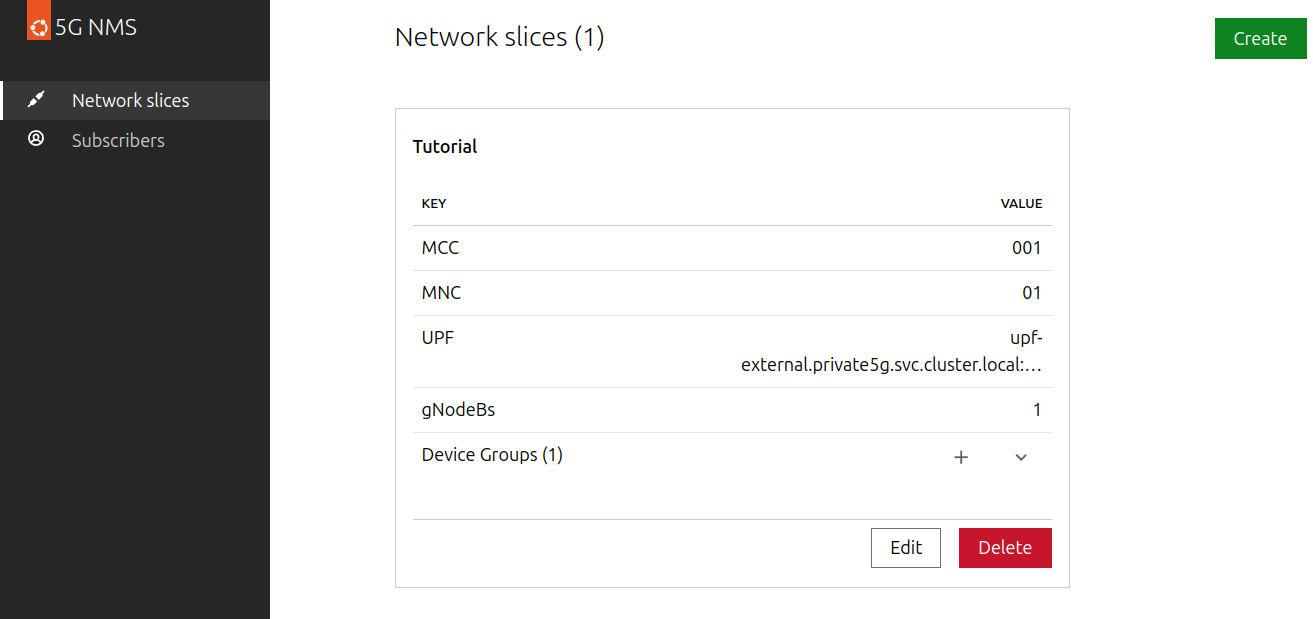
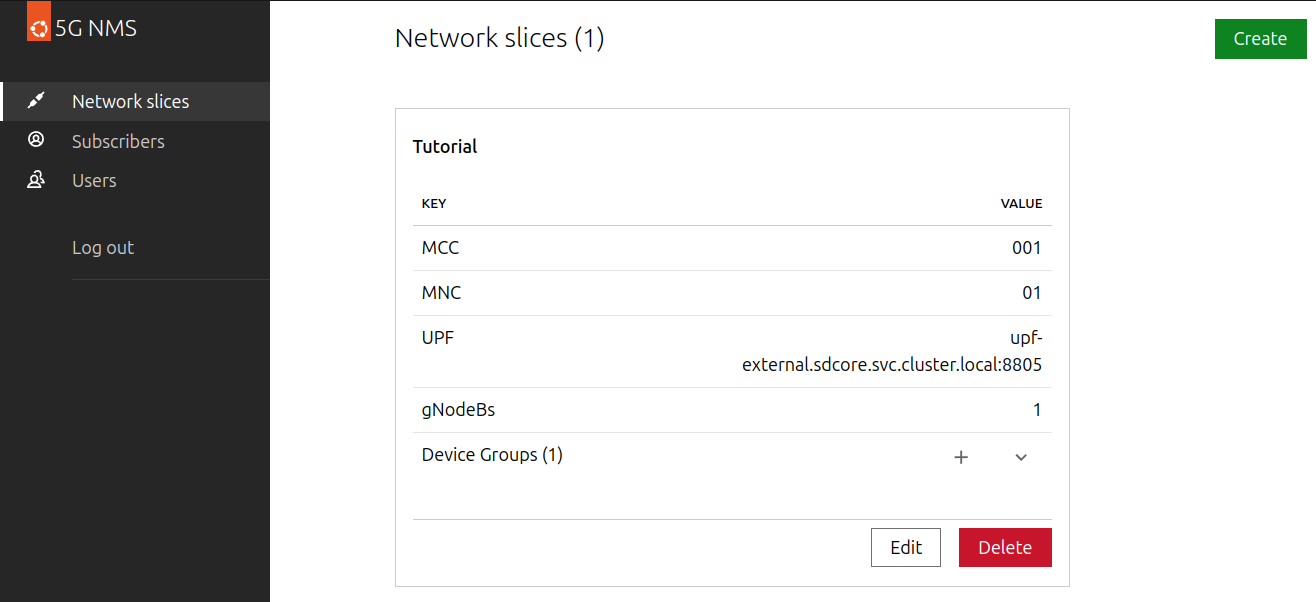
feat: Updates the documentation after switching from fiveg_gnb_identity to fiveg_core_gnb (#20)

diff --git a/docs/tutorials/getting_started.md b/docs/tutorials/getting_started.md
@@ -23,14 +23,14 @@ To complete this tutorial, you will need a machine which meets the following req
 From your terminal, install MicroK8s:
 
 ```console
-sudo snap install microk8s --channel=1.31/stable --classic
+sudo snap install microk8s --channel=1.31-strict/stable
 ```
 
 Add your user to the `microk8s` group:
 
 ```console
-sudo usermod -a -G microk8s $USER
-newgrp microk8s
+sudo usermod -a -G snap_microk8s $USER
+newgrp snap_microk8s
 ```
 
 Add the community repository MicroK8s addon:
@@ -43,15 +43,9 @@ Enable the following MicroK8s addons.
 We must give MetalLB an address range that has at least 3 IP addresses for Charmed Aether SD-Core.
 
 ```console
-microk8s enable hostpath-storage
-microk8s enable multus
-microk8s enable metallb:10.0.0.2-10.0.0.4
-```
-
-Export MicroK8s cluster's configuration:
-
-```console
-microk8s config > ~/.kube/config
+sudo microk8s enable hostpath-storage
+sudo microk8s enable multus
+sudo microk8s enable metallb:10.0.0.2-10.0.0.4
 ```
 
 ### Bootstrap a Juju controller
@@ -62,16 +56,17 @@ From your terminal, install Juju:
 sudo snap install juju --channel=3.6/stable
 ```
 
-Add MicroK8s cluster to Juju:
-
-```console
-juju add-k8s microk8s-classic
-```
-
 Bootstrap a Juju controller:
 
 ```console
-juju bootstrap microk8s-classic
+juju bootstrap microk8s
+```
+
+```{note}
+There is a [bug](https://bugs.launchpad.net/juju/+bug/1988355) in Juju that occurs when
+bootstrapping a controller on a new machine. If you encounter it, create the following
+directory:
+`mkdir -p /home/ubuntu/.local/share`
 ```
 
 ### Install Terraform
@@ -109,7 +104,7 @@ EOF
 Create a Terraform module containing the Charmed Aether SD-Core and a router:
 
 ```console
-cat << EOF > main.tf
+cat << EOF > core.tf
 resource "juju_model" "sdcore" {
   name = "sdcore"
 }
@@ -170,43 +165,48 @@ It is also expected that `traefik` goes to the error state (related Traefik [bug
 Example:
 
 ```console
-ubuntu@host:~$ juju status
+ubuntu@host:~/terraform $ juju status
 Model      Controller                  Cloud/Region                Version  SLA          Timestamp
-sdcore     microk8s-classic-localhost  microk8s-classic/localhost  3.6.0   unsupported  08:08:50Z
+sdcore  microk8s-localhost  microk8s/localhost  3.6.1    unsupported  09:10:50+01:00
 
 App                       Version  Status   Scale  Charm                     Channel        Rev  Address         Exposed  Message
-amf                       1.5.1    active       1  sdcore-amf-k8s            1.5/stable     834  10.152.183.176  no       
-ausf                      1.5.1    active       1  sdcore-ausf-k8s           1.5/stable     645  10.152.183.65   no       
-grafana-agent             0.32.1   waiting      1  grafana-agent-k8s         latest/stable  45   10.152.183.221  no       installing agent
-mongodb                            active       1  mongodb-k8s               6/stable       61   10.152.183.92   no       Primary
-nms                       1.0.0    active       1  sdcore-nms-k8s            1.5/stable     741  10.152.183.141  no       
-nrf                       1.5.2    active       1  sdcore-nrf-k8s            1.5/stable     720  10.152.183.130  no       
-nssf                      1.5.1    active       1  sdcore-nssf-k8s           1.5/stable     614  10.152.183.62   no       
-pcf                       1.5.2    active       1  sdcore-pcf-k8s            1.5/stable     650  10.152.183.144  no       
-router                             active       1  sdcore-router-k8s         1.5/stable     424  10.152.183.218  no       
-self-signed-certificates           active       1  self-signed-certificates  latest/stable  155  10.152.183.33   no       
-smf                       1.6.2    active       1  sdcore-smf-k8s            1.5/stable     745  10.152.183.64   no       
-traefik                   2.11.0   waiting      1  traefik-k8s               latest/stable  199  10.152.183.198  no       installing agent
-udm                       1.5.1    active       1  sdcore-udm-k8s            1.5/stable     605  10.152.183.31   no       
-udr                       1.6.1    active       1  sdcore-udr-k8s            1.5/stable     597  10.152.183.82   no       
-upf                       1.5.0    active       1  sdcore-upf-k8s            1.5/stable     691  10.152.183.164  no       
+amf                       1.6.1    active       1  sdcore-amf-k8s            1.6/edge       863  10.152.183.24   no       
+ausf                      1.5.1    active       1  sdcore-ausf-k8s           1.6/edge       676  10.152.183.54   no       
+grafana-agent             0.40.4   blocked      1  grafana-agent-k8s         latest/stable   80  10.152.183.247  no       Missing ['grafana-cloud-config']|['logging-consumer'] for logging-provider; ['grafana-cloud-config']|['send-remote-wr...
+mongodb                            active       1  mongodb-k8s               6/stable        61  10.152.183.233  no       
+nms                       1.1.0    active       1  sdcore-nms-k8s            1.6/edge       799  10.152.183.107  no       
+nrf                       1.6.1    active       1  sdcore-nrf-k8s            1.6/edge       748  10.152.183.179  no       
+nssf                      1.5.1    active       1  sdcore-nssf-k8s           1.6/edge       631  10.152.183.133  no       
+pcf                       1.5.2    active       1  sdcore-pcf-k8s            1.6/edge       670  10.152.183.21   no       
+router                             active       1  sdcore-router-k8s         1.6/edge       437  10.152.183.203  no       
+self-signed-certificates           active       1  self-signed-certificates  latest/stable  155  10.152.183.201  no       
+smf                       1.6.2    active       1  sdcore-smf-k8s            1.6/edge       765  10.152.183.172  no       
+traefik                   2.11.0   error        1  traefik-k8s               latest/stable  203  10.152.183.128  no       hook failed: "ingress-relation-created"
+udm                       1.5.1    active       1  sdcore-udm-k8s            1.6/edge       626  10.152.183.52   no       
+udr                       1.6.1    active       1  sdcore-udr-k8s            1.6/edge       613  10.152.183.236  no       
+upf                       1.4.0    active       1  sdcore-upf-k8s            1.6/edge       678  10.152.183.34   no       
 
-Unit                         Workload  Agent  Address      Ports  Message
-amf/0*                       active    idle   10.1.10.181         
-ausf/0*                      active    idle   10.1.10.186         
-grafana-agent/0*             blocked   idle   10.1.10.133         grafana-cloud-config: off, logging-consumer: off
-mongodb/0*                   active    idle   10.1.10.155         Primary
-nms/0*                       active    idle   10.1.10.174         
-nrf/0*                       active    idle   10.1.10.151         
-nssf/0*                      active    idle   10.1.10.136         
-pcf/0*                       active    idle   10.1.10.146         
-router/0*                    active    idle   10.1.10.145         
-self-signed-certificates/0*  active    idle   10.1.10.141         
-smf/0*                       active    idle   10.1.10.154         
-traefik/0*                   error     idle   10.1.10.160         hook failed: "ingress-relation-created"
-udm/0*                       active    idle   10.1.10.187         
-udr/0*                       active    idle   10.1.10.176         
-upf/0*                       active    idle   10.1.10.169
+Unit                         Workload  Agent  Address       Ports  Message
+amf/0*                       active    idle   10.1.194.224         
+ausf/0*                      active    idle   10.1.194.212         
+grafana-agent/0*             blocked   idle   10.1.194.214         Missing ['grafana-cloud-config']|['logging-consumer'] for logging-provider; ['grafana-cloud-config']|['send-remote-wr...
+mongodb/0*                   active    idle   10.1.194.193         
+nms/0*                       active    idle   10.1.194.217         
+nrf/0*                       active    idle   10.1.194.241         
+nssf/0*                      active    idle   10.1.194.249         
+pcf/0*                       active    idle   10.1.194.201         
+router/0*                    active    idle   10.1.194.255         
+self-signed-certificates/0*  active    idle   10.1.194.219         
+smf/0*                       active    idle   10.1.194.223         
+traefik/0*                   error     idle   10.1.194.251         hook failed: "ingress-relation-created"
+udm/0*                       active    idle   10.1.194.199         
+udr/0*                       active    idle   10.1.194.231         
+upf/0*                       active    idle   10.1.194.240         
+
+Offer  Application  Charm           Rev  Connected  Endpoint        Interface       Role
+amf    amf          sdcore-amf-k8s  863  0/0        fiveg-n2        fiveg_n2        provider
+nms    nms          sdcore-nms-k8s  799  0/0        fiveg_core_gnb  fiveg_core_gnb  provider
+upf    upf          sdcore-upf-k8s  678  0/0        fiveg_n3        fiveg_n3        provider
 ```
 
 ### Configure the ingress
@@ -220,16 +220,16 @@ microk8s.kubectl -n sdcore get svc | grep "traefik-lb"
 The output should look similar to below:
 
 ```console
-ubuntu@host:~/terraform$ microk8s.kubectl -n sdcore get svc | grep "traefik-lb"
+ubuntu@host:~/terraform $ microk8s.kubectl -n sdcore get svc | grep "traefik-lb"
 traefik-lb                           LoadBalancer   10.152.183.142   10.0.0.2      80:32435/TCP,443:32483/TCP    11m
 ```
 
 In this tutorial, the IP is `10.0.0.2`. Please note it, as we will need it in the next step.
 
-Configure Traefik to use an external hostname. To do that, edit `traefik_config` in the `main.tf` file:
+Configure Traefik to use an external hostname. To do that, edit `traefik_config` in the `core.tf` file:
 
 ```
-:caption: main.tf
+:caption: core.tf
 (...)
 module "sdcore" {
   (...)
@@ -254,9 +254,9 @@ Resolve Traefik error in Juju:
 juju resolve traefik/0
 ```
 
-## 2. Deploy Charmed OAI RAN CU
+## 2. Deploy Charmed OAI RAN CU and DU
 
-Create a Terraform module for the Radio Access Network and add Charmed OAI RAN CU to it:
+Create a Terraform module for the Radio Access Network and add Charmed OAI RAN CU and Charmed OAI RAN DU to it:
 
 ```console
 cat << EOF > ran.tf
@@ -273,10 +273,13 @@ module "cu" {
   }
 }
 
-resource "juju_offer" "cu-fiveg-gnb-identity" {
-  model            = juju_model.oai-ran.name
-  application_name = module.cu.app_name
-  endpoint         = module.cu.fiveg_gnb_identity_endpoint
+module "du" {
+  source = "git::https://github.com/canonical/oai-ran-du-k8s-operator//terraform"
+
+  model_name = juju_model.oai-ran.name
+  config     = {
+    "simulation-mode": true
+  }
 }
 
 resource "juju_integration" "cu-amf" {
@@ -291,13 +294,25 @@ resource "juju_integration" "cu-amf" {
 }
 
 resource "juju_integration" "cu-nms" {
-  model = juju_model.sdcore.name
+  model = juju_model.oai-ran.name
   application {
-    name     = module.sdcore.nms_app_name
-    endpoint = module.sdcore.fiveg_gnb_identity_endpoint
+    name     = module.cu.app_name
+    endpoint = module.cu.fiveg_core_gnb_endpoint
   }
   application {
-    offer_url = juju_offer.cu-fiveg-gnb-identity.url
+    offer_url = module.sdcore.nms_fiveg_core_gnb_offer_url
+  }
+}
+
+resource "juju_integration" "du-cu" {
+  model = juju_model.oai-ran.name
+  application {
+    name     = module.du.app_name
+    endpoint = module.du.fiveg_f1_endpoint
+  }
+  application {
+    name     = module.cu.app_name
+    endpoint = module.cu.fiveg_f1_endpoint
   }
 }
 
@@ -323,7 +338,7 @@ juju switch ran
 juju status --watch 1s --relations
 ```
 
-The deployment is ready when the `cu` application is in the `active/idle` state.
+At this stage both the `cu` and the `du` applications are expected to be in the `waiting/idle` state and the messages should indicate they're waiting for network configuration.
 
 ## 3. Configure the 5G core network through the Network Management System
 
@@ -333,7 +348,9 @@ Retrieve the NMS credentials (`username` and `password`):
 juju switch sdcore
 juju show-secret NMS_LOGIN --reveal
 ```
+
 The output looks like this:
+
 ```
 csurgu7mp25c761k2oe0:
   revision: 1
@@ -362,8 +379,8 @@ In the Network Management System (NMS), create a network slice with the followin
 - Name: `Tutorial`
 - MCC: `001`
 - MNC: `01`
-- UPF: `upf-external.private5g.svc.cluster.local:8805`
-- gNodeB: `private5g-cu-cu (tac:1)`
+- UPF: `upf-external.sdcore.svc.cluster.local:8805`
+- gNodeB: `ran-cu-cu (tac:1)`
 
 You should see the following network slice created:
 
@@ -395,56 +412,34 @@ To restart the CU Pod execute:
 `microk8s.kubectl -n ran delete pod cu-0`
 ```
 
-## 4. Deploy Charmed OAI RAN DU
+After adding the network configuration the CU and the DU should change their state to `active/idle`. 
 
-Add Charmed OAI RAN DU Terraform module to `ran.tf`:
-
-```console
-cat << EOF >> ran.tf
-module "du" {
-  source = "git::https://github.com/canonical/oai-ran-du-k8s-operator//terraform"
-
-  model_name = juju_model.oai-ran.name
-  config     = {
-    "simulation-mode": true
-  }
-}
-
-resource "juju_integration" "du-cu" {
-  model = juju_model.oai-ran.name
-  application {
-    name     = module.du.app_name
-    endpoint = module.du.fiveg_f1_endpoint
-  }
-  application {
-    name     = module.cu.app_name
-    endpoint = module.cu.fiveg_f1_endpoint
-  }
-}
-
-EOF
-```
-
-Update Juju Terraform provider:
-
-```console
-terraform init
-```
-
-Deploy DU:
-
-```console
-terraform apply -auto-approve
-```
-
-Monitor the status of the deployment:
+To verify that run:
 
 ```console
 juju switch ran
-juju status --watch 1s --relations
+juju status
 ```
 
-The deployment is ready when the `du` application is in the `active/idle` state.
+Output should be similar to:
+
+```console
+ubuntu@host:~/terraform $ juju status
+Model  Controller          Cloud/Region        Version  SLA          Timestamp
+ran    microk8s-localhost  microk8s/localhost  3.6.1    unsupported  09:29:04+01:00
+
+SAAS  Status  Store  URL
+amf   active  local  admin/sdcore.amf
+nms   active  local  admin/sdcore.nms
+
+App  Version  Status  Scale  Charm           Channel   Rev  Address         Exposed  Message
+cu            active      1  oai-ran-cu-k8s  2.1/edge   46  10.152.183.152  no       
+du            active      1  oai-ran-du-k8s  2.1/edge   56  10.152.183.80   no       
+
+Unit   Workload  Agent  Address       Ports  Message
+cu/0*  active    idle   10.1.194.205         
+du/0*  active    idle   10.1.194.250
+```
 
 ## 5. Deploy Charmed OAI RAN UE Simulator
 
@@ -538,7 +533,7 @@ terraform destroy -auto-approve
 
 ```{note}
 Terraform does not remove anything from the working directory. If needed, please clean up
-the `terraform` directory manually by removing everything except for the `main.tf`
+the `terraform` directory manually by removing everything except for the `core.tf`
 and `terraform.tf` files.
 ```
 
